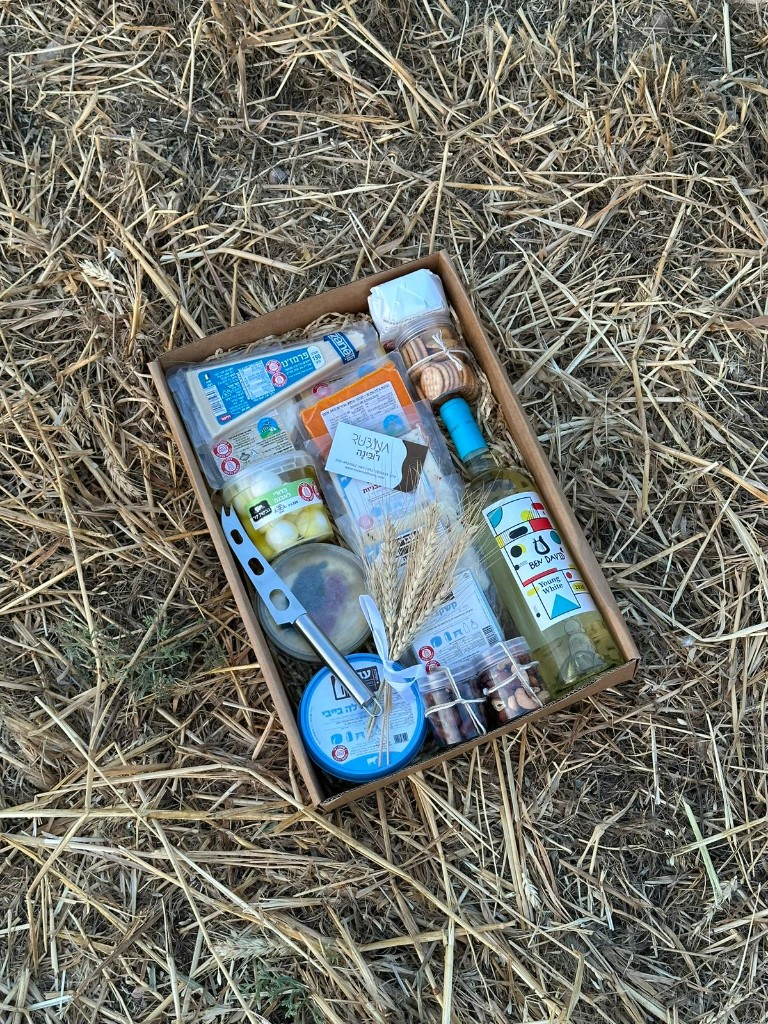
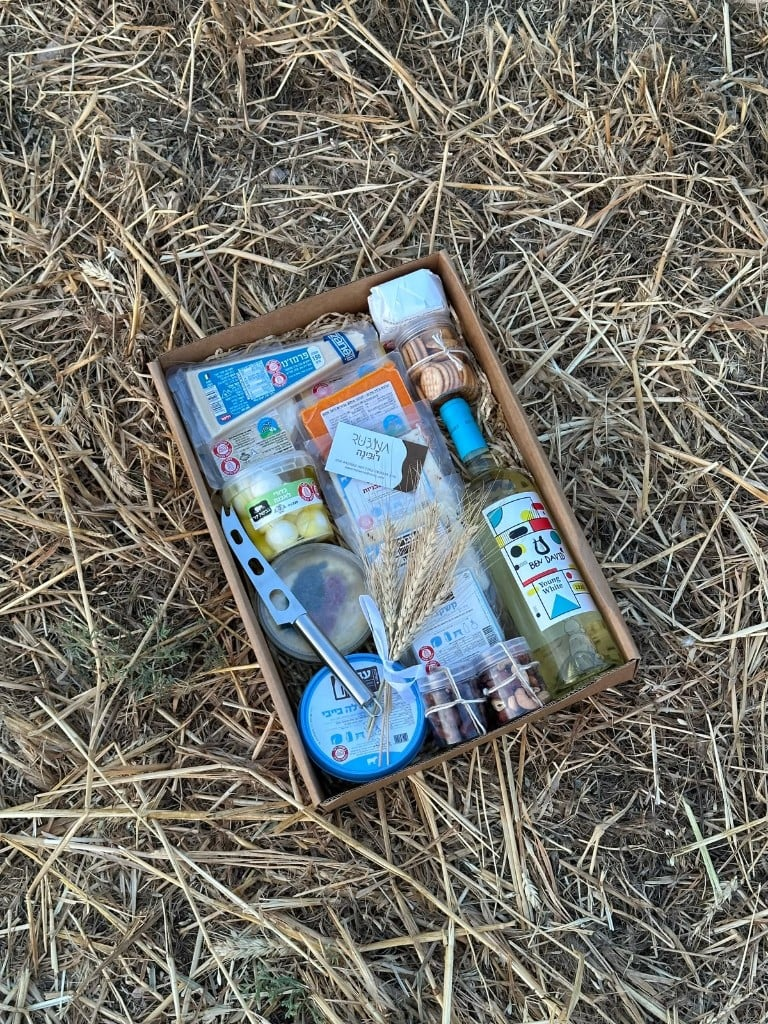
rubina: improve image sharpness, modal contain fit, and 6s popup delay
Raise Next.js image quality to 90 with retina-friendly sizes, show full product in the modal via object-contain, soften picnic cropping, and reduce Tu B'Av popup delay to 6 seconds.

diff --git a/rubina/components/ui/ProductCardImage.tsx b/rubina/components/ui/ProductCardImage.tsx
@@ -4,6 +4,7 @@ import Image from "next/image";
 import { useCallback, useEffect, useRef, useState } from "react";
 import type { ProductItem } from "@/config/site";
 import { HydrationSafeButton } from "@/components/ui/HydrationSafeButton";
+import { IMAGE_QUALITY } from "@/lib/image";
 
 type ProductCardImageProps = {
   product: ProductItem;
@@ -11,6 +12,7 @@ type ProductCardImageProps = {
   priority?: boolean;
   /** If false, suppresses hover zoom (used in modal). */
   hover?: boolean;
+  fit?: "cover" | "contain";
 };
 
 function ChevronIcon({ dir }: { dir: "left" | "right" }) {
@@ -34,11 +36,11 @@ function ChevronIcon({ dir }: { dir: "left" | "right" }) {
 
 export function ProductCardImage({
   product,
-  sizes = "(max-width: 1024px) 100vw, 45vw",
+  sizes = "(max-width: 1024px) 90vw, 50vw",
   priority = false,
   hover = true,
+  fit = "cover",
 }: ProductCardImageProps) {
-  /* Normalise to a flat array of {src, alt} */
   const images: { src: string; alt: string; objectPosition?: string }[] =
     product.images && product.images.length > 0
       ? product.images
@@ -46,6 +48,9 @@ export function ProductCardImage({
 
   const [current, setCurrent] = useState(0);
   const touchStartX = useRef<number | null>(null);
+
+  const objectFitClass = fit === "contain" ? "object-contain" : "object-cover";
+  const wrapperBg = fit === "contain" ? "bg-cream/30" : "";
 
   useEffect(() => {
     if (images.length <= 1) return;
@@ -90,31 +95,32 @@ export function ProductCardImage({
     touchStartX.current = null;
   };
 
-  /* Single-image — simple, no carousel chrome */
   if (images.length === 1) {
     const hoverClass = hover
       ? "transition-transform duration-700 ease-out group-hover:scale-[1.03]"
       : "";
     return (
-      <Image
-        src={images[0].src}
-        alt={images[0].alt}
-        fill
-        className={`object-cover ${hoverClass}`}
-        style={images[0].objectPosition ? { objectPosition: images[0].objectPosition } : undefined}
-        sizes={sizes}
-        priority={priority}
-      />
+      <div className={`relative h-full w-full ${wrapperBg}`}>
+        <Image
+          src={images[0].src}
+          alt={images[0].alt}
+          fill
+          className={`${objectFitClass} ${hoverClass}`}
+          style={images[0].objectPosition ? { objectPosition: images[0].objectPosition } : undefined}
+          sizes={sizes}
+          quality={IMAGE_QUALITY}
+          priority={priority}
+        />
+      </div>
     );
   }
 
   return (
     <div
-      className="relative h-full w-full overflow-hidden"
+      className={`relative h-full w-full overflow-hidden ${wrapperBg}`}
       onTouchStart={onTouchStart}
       onTouchEnd={onTouchEnd}
     >
-      {/* Slides */}
       {images.map((image, index) => (
         <div
           key={`${image.src}-${index}`}
@@ -127,22 +133,21 @@ export function ProductCardImage({
             src={image.src}
             alt={image.alt}
             fill
-            className="object-cover"
+            className={objectFitClass}
             style={image.objectPosition ? { objectPosition: image.objectPosition } : undefined}
             sizes={sizes}
+            quality={IMAGE_QUALITY}
             priority={priority && index === 0}
             loading="eager"
           />
         </div>
       ))}
 
-      {/* Gradient so controls are readable */}
       <div
         className="pointer-events-none absolute inset-x-0 bottom-0 z-20 h-20 bg-gradient-to-t from-charcoal/40 to-transparent"
         aria-hidden="true"
       />
 
-      {/* Prev arrow (right side in RTL = previous) */}
       <HydrationSafeButton
         type="button"
         onClick={prev}
@@ -152,7 +157,6 @@ export function ProductCardImage({
         <ChevronIcon dir="right" />
       </HydrationSafeButton>
 
-      {/* Next arrow (left side in RTL = next) */}
       <HydrationSafeButton
         type="button"
         onClick={next}
@@ -162,7 +166,6 @@ export function ProductCardImage({
         <ChevronIcon dir="left" />
       </HydrationSafeButton>
 
-      {/* Dot indicators */}
       <div
         className="absolute bottom-3 inset-x-0 z-30 flex justify-center gap-1.5"
         onClick={(e) => e.stopPropagation()}
@@ -183,7 +186,6 @@ export function ProductCardImage({
         ))}
       </div>
 
-      {/* Image count badge */}
       <div className="absolute end-2 top-2 z-30 rounded-full bg-charcoal/50 px-2 py-0.5 text-[10px] text-white/90 backdrop-blur-sm">
         {current + 1}/{images.length}
       </div>

diff --git a/rubina/components/ui/ProductModal.tsx b/rubina/components/ui/ProductModal.tsx
@@ -37,9 +37,6 @@ export function ProductModal({ product, onClose }: ProductModalProps) {
 
   if (!product) return null;
 
-  const hasMultipleImages =
-    product.images && product.images.length > 1;
-
   const whatsappMessage = `היי רובינה! אשמח לשמוע פרטים על ${product.title}`;
 
   return (
@@ -55,16 +52,13 @@ export function ProductModal({ product, onClose }: ProductModalProps) {
         onClick={(e) => e.stopPropagation()}
       >
         {/* Image carousel */}
-        <div
-          className={`group relative w-full overflow-hidden sm:rounded-t-2xl ${
-            hasMultipleImages ? "aspect-[3/4]" : "aspect-[3/4]"
-          }`}
-        >
+        <div className="group relative w-full overflow-hidden bg-cream/30 sm:rounded-t-2xl aspect-[4/5]">
           <ProductCardImage
             product={product}
-            sizes="(max-width: 640px) 100vw, 512px"
+            sizes="(max-width: 640px) 100vw, 640px"
             priority
             hover={false}
+            fit="contain"
           />
 
           {/* Close button */}

diff --git a/rubina/components/GalleryInteractive.tsx b/rubina/components/GalleryInteractive.tsx
@@ -6,6 +6,7 @@ import { galleryFocus, type GalleryImage } from "@/config/site";
 import { Reveal } from "@/components/ui/Reveal";
 import { Lightbox } from "@/components/ui/Lightbox";
 import { HydrationSafeButton } from "@/components/ui/HydrationSafeButton";
+import { IMAGE_QUALITY } from "@/lib/image";
 
 type GalleryInteractiveProps = {
   title: string;
@@ -16,7 +17,7 @@ type GalleryInteractiveProps = {
 };
 
 /** Taller mobile frame + gentler desktop crop for portrait picnic shots. */
-const STAGE_ASPECT = "aspect-[4/5] w-full sm:aspect-[4/3] lg:aspect-[16/10]";
+const STAGE_ASPECT = "aspect-[5/6] w-full sm:aspect-[4/3] lg:aspect-[16/10]";
 
 function imageFocus(image: GalleryImage): string {
   return image.objectPosition ?? galleryFocus.subject;
@@ -167,7 +168,8 @@ export function GalleryInteractive({ allImages }: GalleryInteractiveProps) {
                     fill
                     className="object-cover"
                     style={{ objectPosition: imageFocus(image) }}
-                    sizes="(max-width: 1280px) 100vw, 1280px"
+                    sizes="(max-width: 1280px) 100vw, 1920px"
+                    quality={IMAGE_QUALITY}
                     priority={index <= 1}
                     loading={index <= 2 ? "eager" : "lazy"}
                   />
@@ -292,6 +294,7 @@ export function GalleryInteractive({ allImages }: GalleryInteractiveProps) {
                     className="object-cover"
                     style={{ objectPosition: imageFocus(image) }}
                     sizes="112px"
+                    quality={IMAGE_QUALITY}
                     loading="lazy"
                   />
                 </HydrationSafeButton>

diff --git a/rubina/components/TuBavPromo.tsx b/rubina/components/TuBavPromo.tsx
@@ -6,6 +6,7 @@ import { createPortal } from "react-dom";
 import { galleryFocus, site, whatsappHref } from "@/config/site";
 import { WhatsAppIcon } from "@/components/ui/WhatsAppButton";
 import { HydrationSafeButton } from "@/components/ui/HydrationSafeButton";
+import { IMAGE_QUALITY } from "@/lib/image";
 
 /* ------------------------------------------------------------------ *
  * Tu B'Av temporary campaign — single source of truth.
@@ -14,7 +15,7 @@ import { HydrationSafeButton } from "@/components/ui/HydrationSafeButton";
  * ------------------------------------------------------------------ */
 const TU_BAV = {
   enabled: true,
-  delayMs: 10000,
+  delayMs: 6000,
   /** Open when user has scrolled this fraction of the page (or after delayMs). */
   scrollThreshold: 0.28,
   storageKey: "rubina_tubav_dismissed_v1",
@@ -190,7 +191,8 @@ export function TuBavPromo() {
               fill
               className="object-cover transition-opacity duration-500"
               style={{ objectPosition: active.objectPosition ?? galleryFocus.picnic }}
-              sizes="(max-width: 448px) 100vw, 448px"
+              sizes="(max-width: 448px) 100vw, 640px"
+              quality={IMAGE_QUALITY}
               priority
             />
           </div>

diff --git a/rubina/components/OurStory.tsx b/rubina/components/OurStory.tsx
@@ -1,6 +1,7 @@
 import Image from "next/image";
 import { site } from "@/config/site";
 import { Reveal } from "@/components/ui/Reveal";
+import { IMAGE_QUALITY } from "@/lib/image";
 
 export function OurStory() {
   const { ourStory } = site;
@@ -19,7 +20,8 @@ export function OurStory() {
               alt={ourStory.imageAlt}
               fill
               className="object-cover"
-              sizes="(max-width: 1024px) 100vw, 45vw"
+              sizes="(max-width: 1024px) 90vw, 50vw"
+              quality={IMAGE_QUALITY}
             />
           </div>
         </Reveal>

diff --git a/rubina/next.config.ts b/rubina/next.config.ts
@@ -6,6 +6,9 @@ const nextConfig: NextConfig = {
   allowedDevOrigins: ["10.100.102.7"],
   transpilePackages: ["@landing-legal/core"],
   outputFileTracingRoot: path.resolve(__dirname, ".."),
+  images: {
+    qualities: [75, 90],
+  },
 };
 
 export default nextConfig;

diff --git a/rubina/components/Gallery.tsx b/rubina/components/Gallery.tsx
@@ -11,7 +11,7 @@ const GalleryInteractive = dynamic(
     loading: () => (
       <div className="mt-12 sm:mt-16" aria-hidden="true">
         {/* Main slide skeleton */}
-        <div className="relative aspect-[4/5] w-full animate-pulse overflow-hidden rounded-2xl bg-cream/60 sm:aspect-[4/3] lg:aspect-[16/10]" />
+        <div className="relative aspect-[5/6] w-full animate-pulse overflow-hidden rounded-2xl bg-cream/60 sm:aspect-[4/3] lg:aspect-[16/10]" />
         {/* Thumbnails skeleton */}
         <div className="mt-3 flex gap-2 sm:mt-4 sm:gap-3">
           {Array.from({ length: 5 }).map((_, i) => (

diff --git a/rubina/components/Hero.tsx b/rubina/components/Hero.tsx
@@ -2,6 +2,7 @@ import Image from "next/image";
 import Link from "next/link";
 import { site } from "@/config/site";
 import { Reveal } from "@/components/ui/Reveal";
+import { IMAGE_QUALITY } from "@/lib/image";
 
 export function Hero() {
   const { hero, brand } = site;
@@ -16,6 +17,7 @@ export function Hero() {
           priority
           className="hero-zoom object-cover object-top"
           sizes="100vw"
+          quality={IMAGE_QUALITY}
         />
       </div>
 

diff --git a/rubina/components/ProductGrid.tsx b/rubina/components/ProductGrid.tsx
@@ -31,7 +31,7 @@ export function ProductGrid({ items }: ProductGridProps) {
                * A visually hidden "open details" button handles keyboard
                * access for users who tab onto the image area.
                */}
-              <div className="relative block w-full aspect-[3/4] overflow-hidden">
+              <div className="relative block w-full aspect-[4/5] overflow-hidden">
                 <ProductCardImage product={product} priority={index < 2} />
                 {/* Invisible overlay that opens modal on click (not on nav buttons) */}
                 <HydrationSafeButton

diff --git a/rubina/config/site.ts b/rubina/config/site.ts
@@ -19,7 +19,7 @@ export type GalleryImage = {
 export const galleryFocus = {
   center: "center center",
   subject: "center 62%",
-  picnic: "center 68%",
+  picnic: "center 65%",
 } as const;
 
 export function filterGalleryImages(images: GalleryImage[]): GalleryImage[] {

diff --git a/rubina/lib/image.ts b/rubina/lib/image.ts
@@ -1,0 +1,2 @@
+/** Shared Next.js Image optimizer quality for photo assets. */
+export const IMAGE_QUALITY = 90;